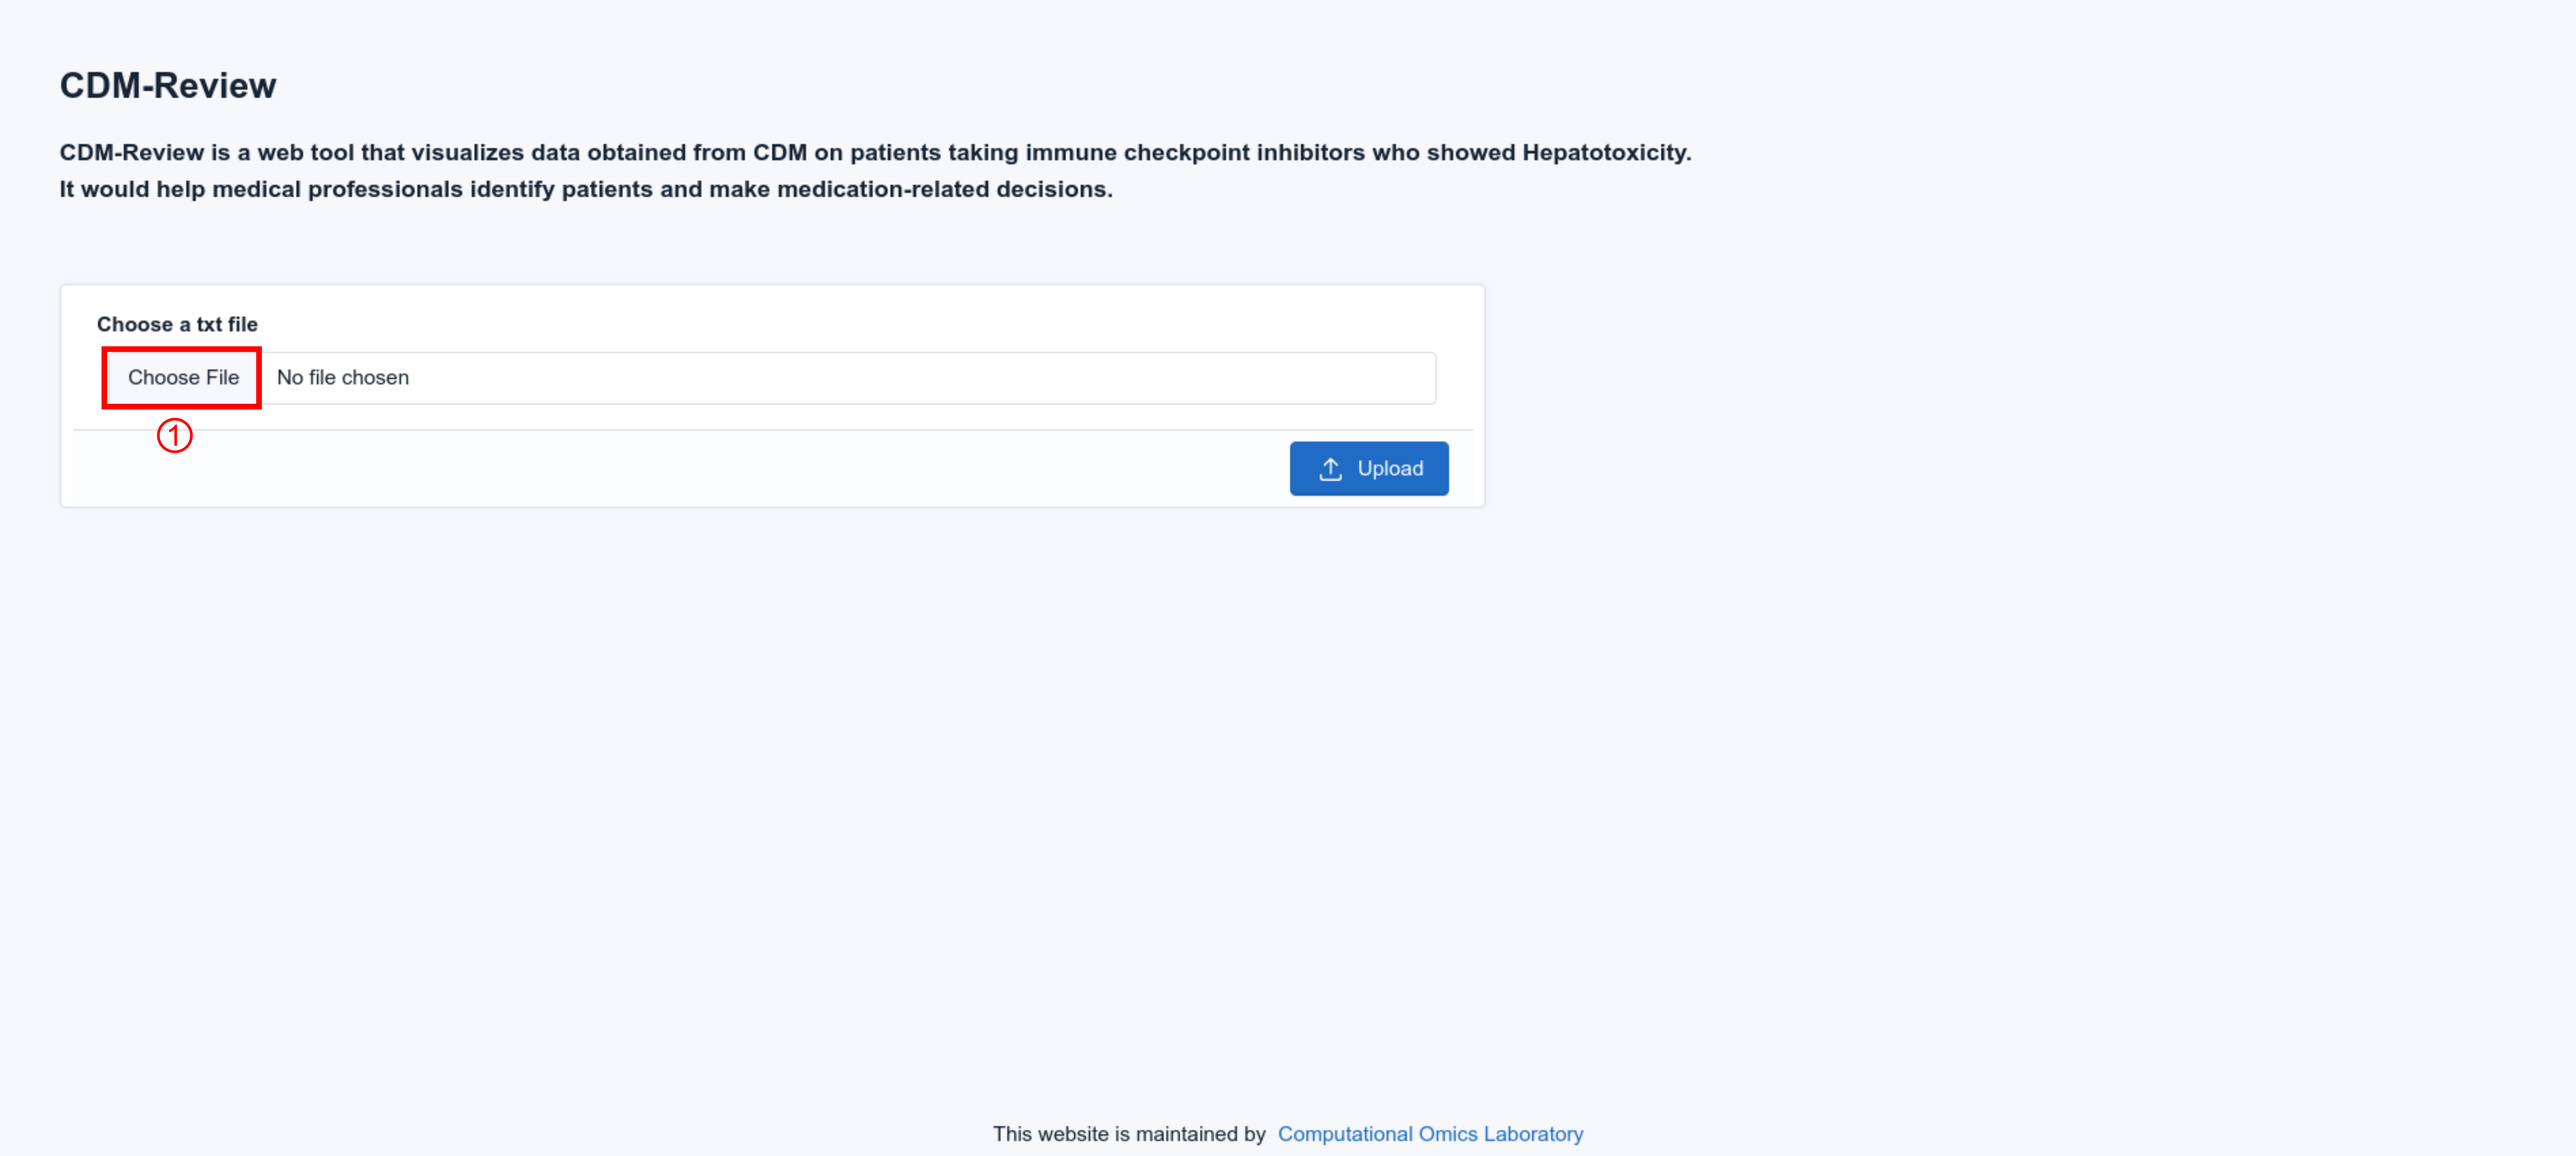
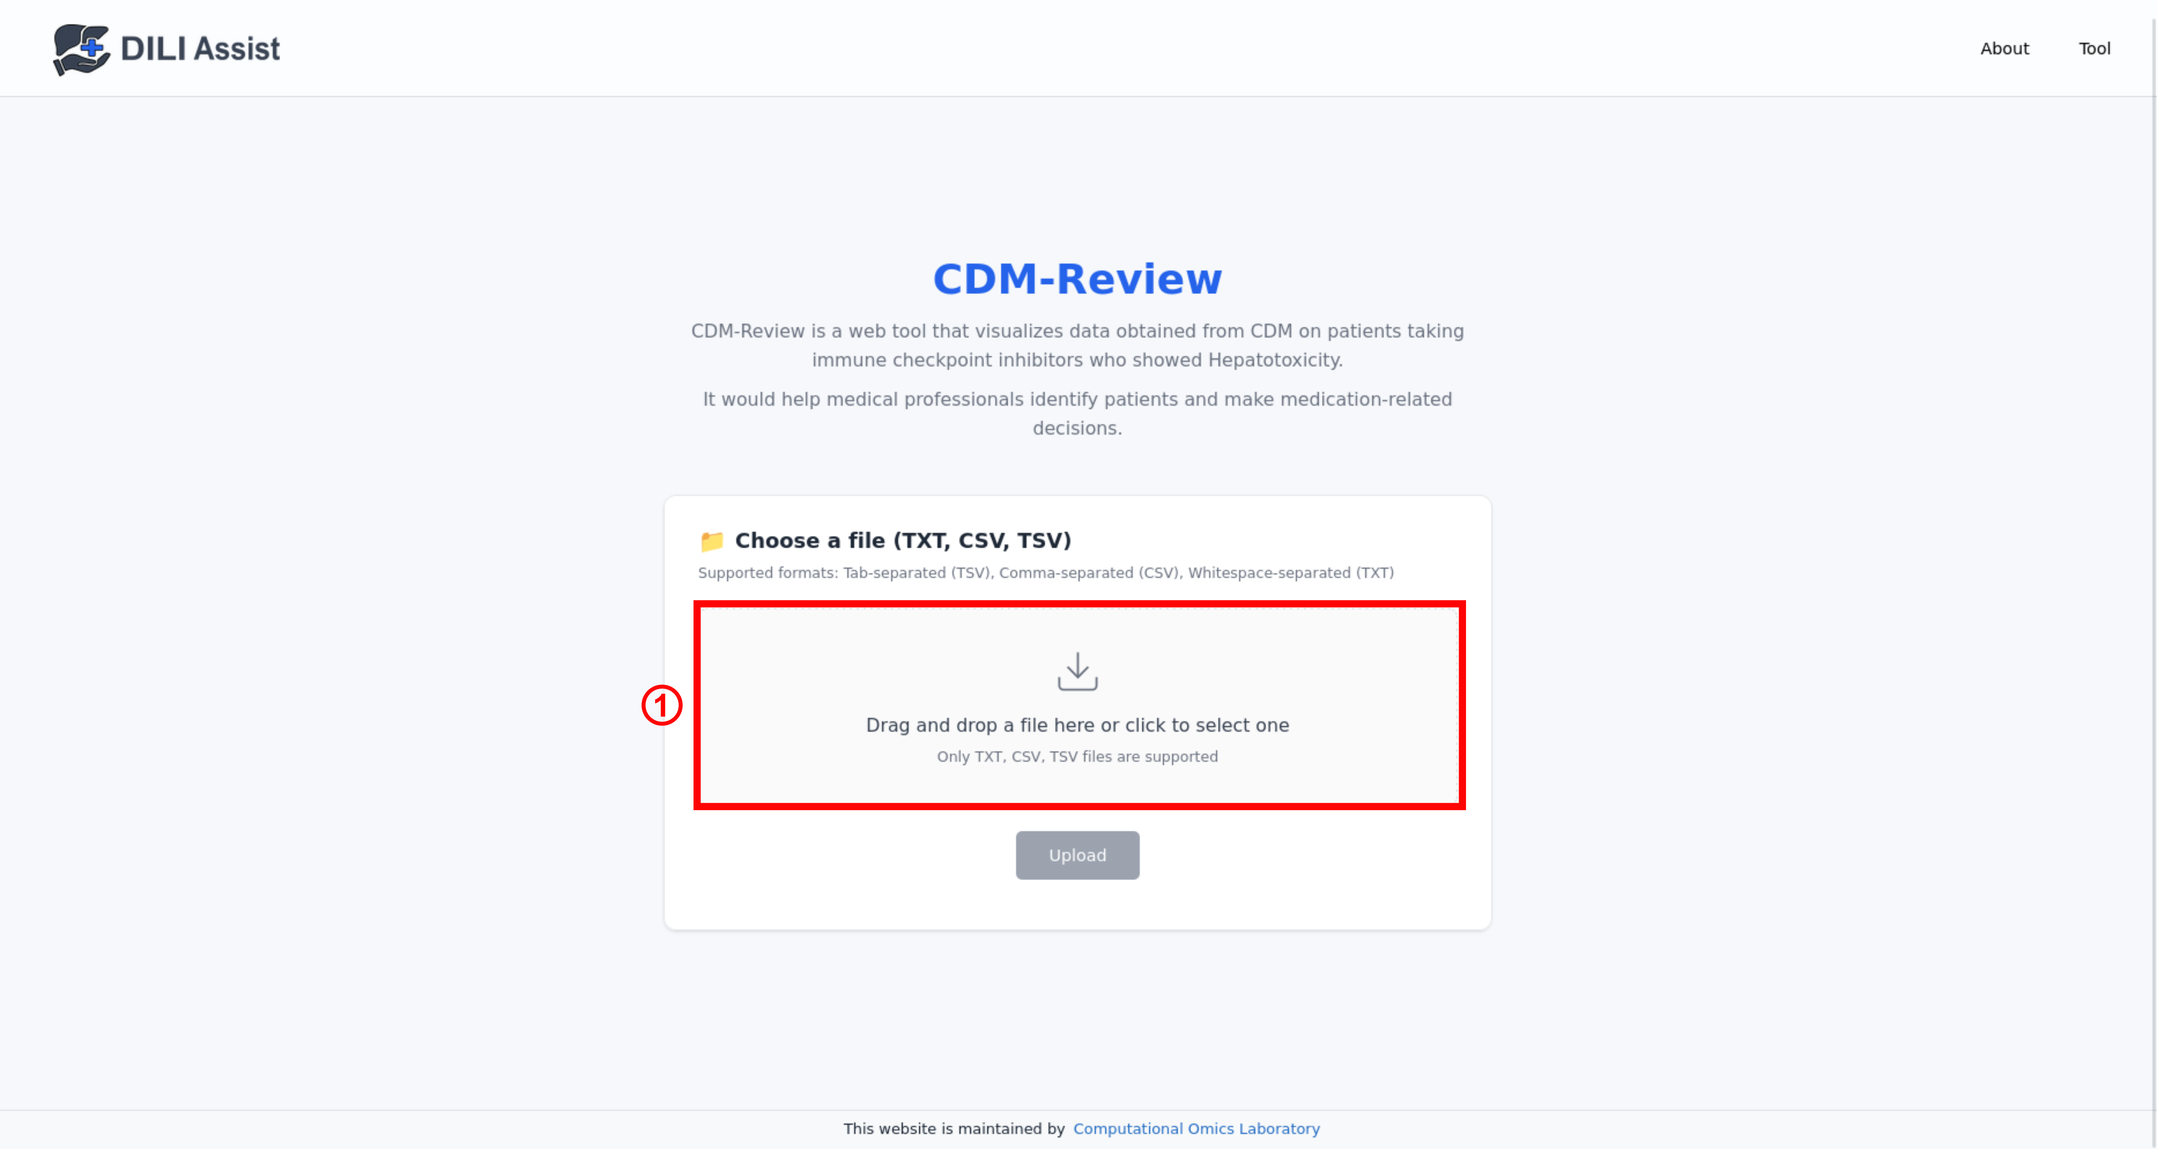
about 페이지 수정

diff --git a/frontend/src/routes/about/+page.svelte b/frontend/src/routes/about/+page.svelte
@@ -178,32 +178,34 @@
             <El row tag="h1">*⃣ How to use DILI-Assist </El>
             <img src="/about/1.png" alt="input page" style="width: 85%; height: auto; margin-top: 45px;" />
             <El row tag="p" style="font-size: 16px; font-weight: 400; color: #333; margin-top: 5px;">
-              1⃣ Click the 'Choose File' button to select CDM data in a .txt file with TSV format. If an error message appears, please check whether the selected file matches the required format.
+              ① Click the file upload area or drag and drop to select CDM data in TXT, CSV, or TSV format. The system will automatically detect the file format.
             </El>
-            
+
             <img src="/about/2.png" alt="input page" style="width: 85%; height: auto; margin-top: 45px;" />
             <El row tag="p" style="font-size: 16px; font-weight: 400; color: #333; margin-top: 5px;">
-              2⃣ When you select a file, the name of the chosen file will appear in the input field. <br />
-              3⃣ If the file has been correctly selected, press the Upload button. Please wait, as you will be automatically redirected to the results page after clicking the button.
+              ② When you select a file, the detected format and file name will be displayed with a confidence score. <br />
+              ③ If the correct format has been detected, click the Upload button to navigate to the result page.
             </El>
-            
-            <img src="/about/3.png" alt="input page" style="width: 85%; height: auto; margin-top: 5px;" />
+
+            <img src="/about/3.png" alt="result page" style="width: 85%; height: auto; margin-top: 5px;" />
             <El row tag="p" style="font-size: 16px; font-weight: 400; color: #333; margin-top: 45px;">
-              4⃣ When the results page appears, select the patient whose chart you want to view from the list on the left.
+              ④ When the result page appears, select the patient you want to view from the patient list on the left.<br />
+              ⑤ The Naranjo Algorithm is a survey tool that verifies whether ICI medications cause hepatotoxicity. It confirms causality through 10 questions. Select the answer that matches your assessment for each question.<br />
+              ⑥ Click the 'Analyze with AI' button to see AI-generated Naranjo survey responses based on patient data.
             </El>
-            
-            <img src="/about/4.png" alt="input page" style="width: 85%; height: auto; margin-top: 5px;" />
-            <El row tag="p" style="font-size: 16px; font-weight: 400; color: #333; margin-top: 45px;">
-              5⃣ The Naranjo Algorithm is a survey tool that can verify whether ICI medications affect hepatotoxicity. It is a tool that confirms causality through 10 questions. Check the boxes that correspond to your answers to the questions.<br />
-              6⃣ Click the 'Export This Data' button to download the currently selected patient's chart and Naranjo Algorithm survey results as an .html file. If an error message appears, please check whether a patient has been selected.<br />
-              7⃣ Click the 'Export All Data' button to download charts and Naranjo Algorithm survey results for all patients as a zip file.
+
+            <img src="/about/4.png" alt="survey page" style="width: 85%; height: auto; margin-top: 45px;" />
+            <El row tag="p" style="font-size: 16px; font-weight: 400; color: #333; margin-top: 5px;">
+              ⑦ AI-selected answers are marked with an 'AI' badge on the right side of the answer.<br />
+              ⑧ Click the '?' icon next to each question to view the AI's reasoning and confidence level.<br />
+              ⑨ The Naranjo score is automatically calculated based on your selections.<br />
+              ⑩ Click the Submit button to save your responses and notes, which will be included in downloaded reports.
             </El>
-            
-            <img src="/about/5.png" alt="input page" style="width: 85%; height: auto; margin-top: 5px;"/>
+
             <El row tag="p" style="font-size: 16px; font-weight: 400; color: #333; margin-top: 45px;">
-              8⃣ The score below the Naranjo survey changes according to your responses among 'Yes,' 'No,' or 'Do not know or not done.<br />
-              9⃣ When you click the Submit button, your responses will be saved in local storage and will be included in the results when downloaded.<br />
-              🔟 The chart has horizontal and vertical axes, and semi-transparent axes are generated when you scroll down or move sideways on the screen.
+              ⑪ Click 'Export This Data' to download the currently selected patient's chart and Naranjo survey results as an HTML file.<br />
+              ⑫ Click 'Export All Data' to download HTML files for all patients as a ZIP file.<br />
+              ⑬ Click the icon at the bottom left to open the PubMed literature search assistant.
             </El>
           </El>
 

diff --git a/frontend/src/routes/result/+page.svelte b/frontend/src/routes/result/+page.svelte
@@ -621,7 +621,7 @@
 		background-color: rgb(255, 255, 255, 0.5);
 	}
 	.survey {
-		width: 335px;
+		width: 355px;
 		background-color: white;
 		border: 1px solid #dcdcdc;
 		border-radius: 8px;
